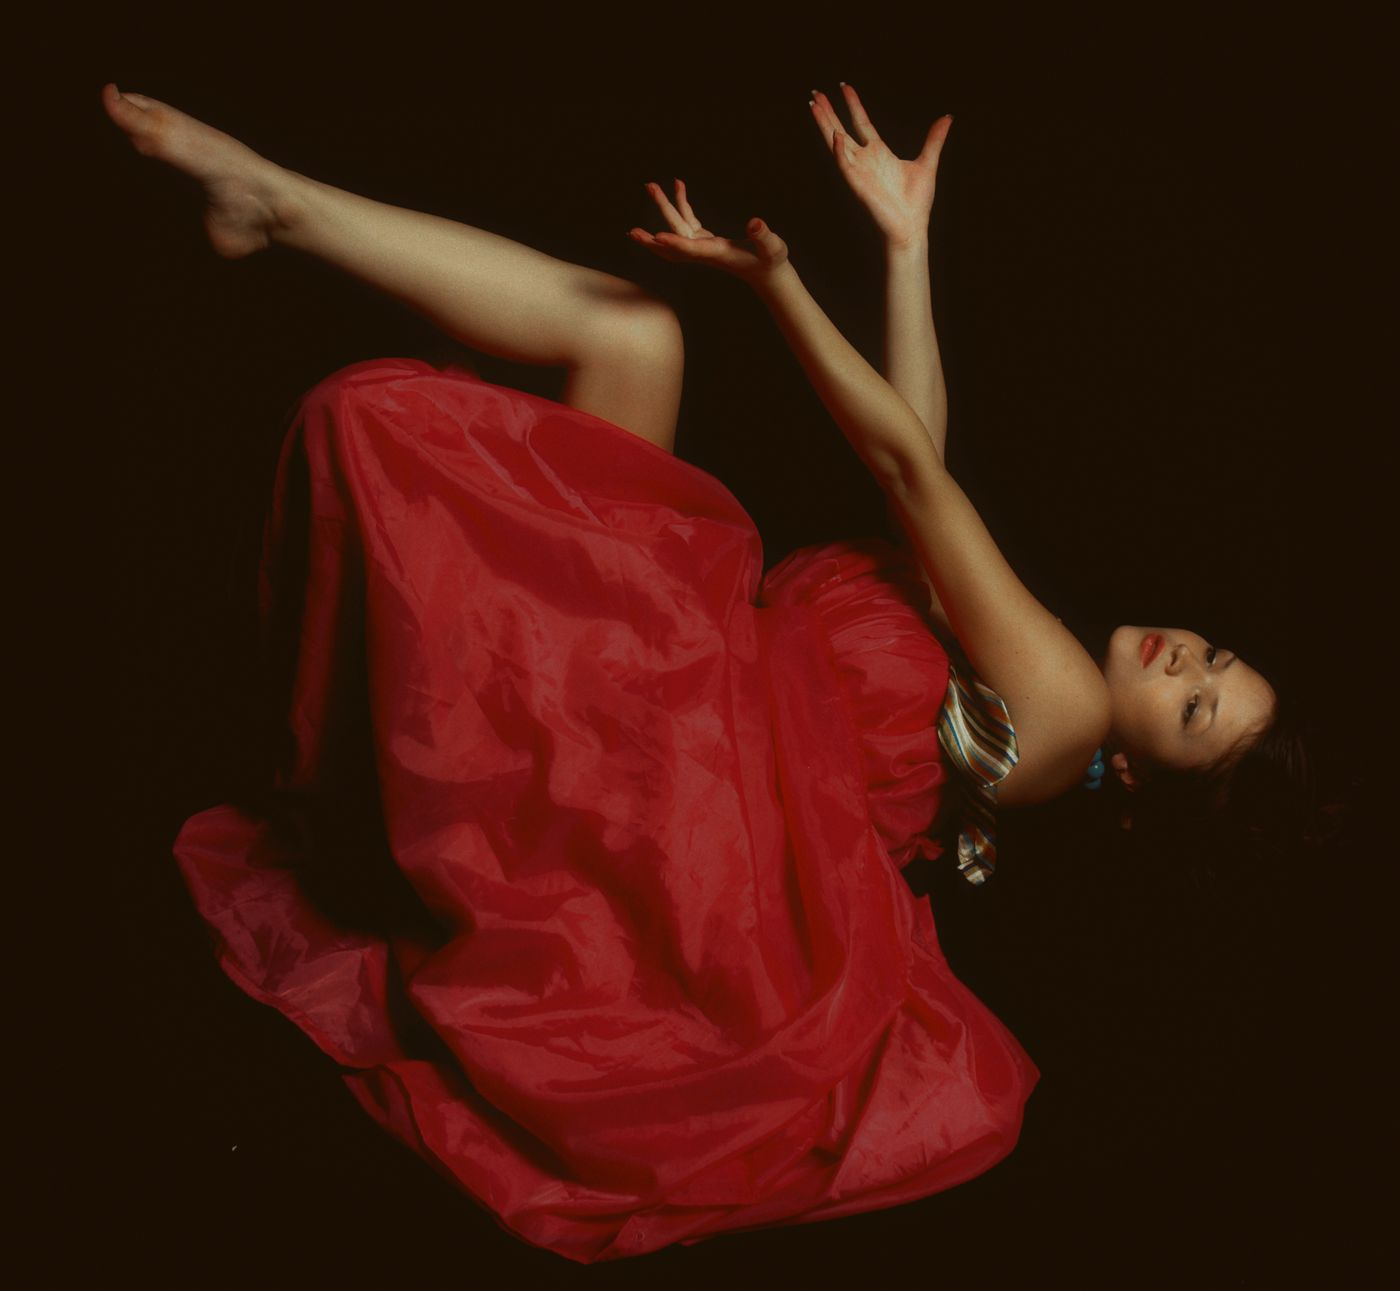
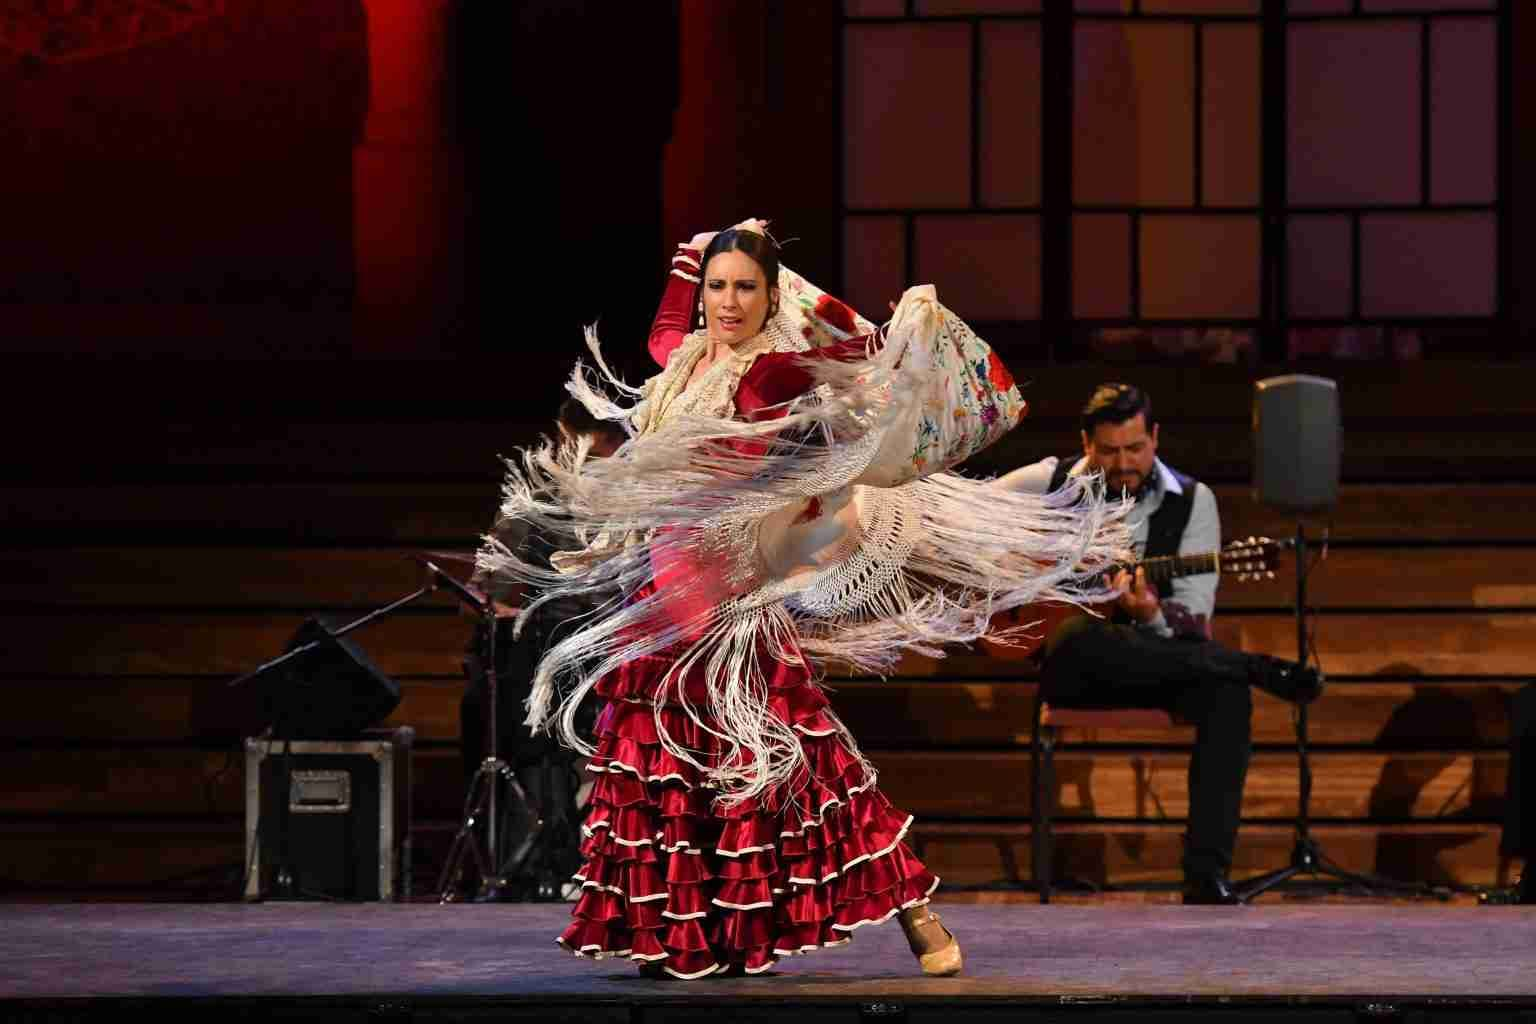
Flamenco: client's photos (8-photo gallery, fading card on the home page); removed the 'We organize your week' block

diff --git a/index.html b/index.html
@@ -242,6 +242,8 @@ body.menu .burger span:last-child{transform:translateY(-2.75px) rotate(-45deg)}
 .rail.drag{cursor:grabbing;scroll-snap-type:none}
 .xc{flex:none;width:clamp(280px,26vw,360px);scroll-snap-align:start;border-radius:var(--r);overflow:hidden;position:relative;aspect-ratio:3/4;background:var(--sand);border:1px solid var(--line);user-select:none}
 .xc img{width:100%;height:100%;object-fit:cover;transition:transform 1.2s var(--ease);pointer-events:none}
+.xc-fade img.fd{position:absolute;inset:0;opacity:0;transition:opacity 1.4s ease,transform 1.2s var(--ease)}
+.xc-fade img.fd.on{opacity:1}
 .xc:hover img{transform:scale(1.06)}
 .xc::after{content:"";position:absolute;inset:0;background:linear-gradient(180deg,rgba(46,36,30,0) 30%,rgba(46,36,30,.55) 55%,rgba(46,36,30,.9) 100%)}
 .xc .tx{color:#fff}
@@ -636,50 +638,6 @@ footer{background:var(--sand);color:var(--ink);padding:0 0 28px;overflow:hidden;
         <p class="note-sign">Yeila Castillo Castillo<small>Yei City Concierge</small></p>
       </div>
     </div>
-
-    <div class="bento">
-      <div class="b b-photo b-q rv">
-        <img src="assets/img/viajera-beige.jpg" alt="Viajera con maleta llegando a su destino" loading="lazy" style="object-position:50% 35%">
-        <blockquote>
-          <span class="es">“La tranquilidad de delegar en manos expertas y disfrutar de lo que realmente importa.”</span>
-          <span class="en">“The peace of mind of delegating to expert hands, so you can enjoy what truly matters.”</span>
-          <small>— Yei City Concierge</small>
-        </blockquote>
-      </div>
-
-      <div class="b b-num rv d1">
-        <svg class="bell"><use href="#i-bell"/></svg>
-        <div class="n" data-count="16">0</div>
-        <p><span class="es">servicios a tu disposición: del traslado desde el aeropuerto a la última copa de la noche.</span><span class="en">services at your disposal: from the airport transfer to the last drink of the night.</span></p>
-      </div>
-
-      <div class="b b-photo rv d2"><img src="assets/img/copas-beige.jpg" alt="Copas de cristal sobre fondo dorado" loading="lazy"></div>
-
-      <div class="b b-dest rv d3">
-        <span class="label" style="border:0;padding:0"><span>// <span class="es">Destinos</span><span class="en">Destinations</span></span><span>02</span></span>
-        <div>
-          <h4>Barcelona<br><span class="it"><span class="es">&amp; República Dominicana</span><span class="en">&amp; Dominican Republic</span></span></h4>
-          <div class="row"><span>BCN · GMT+1</span><span>RD · GMT−4</span></div>
-        </div>
-      </div>
-
-      <div class="b b-week rv d2" id="week">
-        <div class="hd">
-          <h4><span class="es">Organizamos tu semana.<br><span class="it">Tú solo descansas.</span></span><span class="en">We organize your week.<br><span class="it">You just relax.</span></span></h4>
-          <span><span class="es">Ejemplo de plan</span><span class="en">Sample plan</span></span>
-        </div>
-        <div class="week">
-          <div class="day"><div class="bar" style="height:46%;transition-delay:.05s" title="Llegada"><svg viewBox="0 0 24 24"><path d="M2 16h20M5 13l4 1 5-7 2 .5-2.5 7 4 1 1.5-2 1.5.4-1 3.6" fill="none" stroke="currentColor" stroke-width="1.6" stroke-linejoin="round"/></svg></div><small><span class="es">L</span><span class="en">M</span></small></div>
-          <div class="day"><div class="bar" style="height:72%;transition-delay:.12s" title="Cena"><svg viewBox="0 0 24 24"><path d="M7 3v8a2 2 0 0 0 2 2v8M7 3v6M11 3v6M17 3c-2 2-2 6 0 8v10" fill="none" stroke="currentColor" stroke-width="1.6" stroke-linecap="round"/></svg></div><small><span class="es">M</span><span class="en">T</span></small></div>
-          <div class="day"><div class="bar" style="height:58%;transition-delay:.19s" title="Spa"><svg viewBox="0 0 24 24"><path d="M12 21c-5 0-8-3-8-7 3 0 6 1 8 4 2-3 5-4 8-4 0 4-3 7-8 7zM12 18c-2-3-2-8 0-12 2 4 2 9 0 12z" fill="none" stroke="currentColor" stroke-width="1.5" stroke-linejoin="round"/></svg></div><small><span class="es">X</span><span class="en">W</span></small></div>
-          <div class="day"><div class="bar" style="height:84%;transition-delay:.26s" title="Velero"><svg viewBox="0 0 24 24"><path d="M11 3v13H4zM13 6l6 10h-6zM3 19c2 1.5 4 1.5 6 0 2 1.5 4 1.5 6 0 2 1.5 4 1.5 6 0" fill="none" stroke="currentColor" stroke-width="1.5" stroke-linejoin="round"/></svg></div><small><span class="es">J</span><span class="en">T</span></small></div>
-          <div class="day"><div class="bar" style="height:66%;transition-delay:.33s" title="Rooftop"><svg viewBox="0 0 24 24"><path d="M8 3h8l-1 7a3 3 0 0 1-6 0zM12 13v7M8 21h8" fill="none" stroke="currentColor" stroke-width="1.5" stroke-linejoin="round"/></svg></div><small><span class="es">V</span><span class="en">F</span></small></div>
-          <div class="day"><div class="bar" style="height:96%;transition-delay:.4s" title="Noche"><svg viewBox="0 0 24 24"><path d="M20 14.5A8 8 0 1 1 9.5 4a6.5 6.5 0 0 0 10.5 10.5z" fill="none" stroke="currentColor" stroke-width="1.5" stroke-linejoin="round"/></svg></div><small><span class="es">S</span><span class="en">S</span></small></div>
-          <div class="day"><div class="bar" style="height:38%;transition-delay:.47s" title="Relax"><svg viewBox="0 0 24 24"><circle cx="12" cy="12" r="4" fill="none" stroke="currentColor" stroke-width="1.5"/><path d="M12 2v3M12 19v3M2 12h3M19 12h3M5 5l2 2M17 17l2 2M19 5l-2 2M7 17l-2 2" stroke="currentColor" stroke-width="1.5" stroke-linecap="round"/></svg></div><small><span class="es">D</span><span class="en">S</span></small></div>
-        </div>
-        <div class="foot"><span class="es">Llegada · cena · spa · velero · rooftop · noche · relax</span><span class="en">Arrival · dinner · spa · sailing · rooftop · nightlife · relax</span><span>YCC</span></div>
-      </div>
-    </div>
   </div>
 </section>
 
@@ -862,7 +820,7 @@ footer{background:var(--sand);color:var(--ink);padding:0 0 28px;overflow:hidden;
       <a class="xc" href="planes/jardin/"><img src="assets/img/jardin-secreto.jpg" alt="Restaurante con jardín secreto en Barcelona" loading="lazy"><div class="tx"><span class="es">Rincón secreto</span><span class="en">Hidden gem</span><h3><span class="es">Un jardín en plena ciudad</span><span class="en">A secret garden</span></h3><p><span class="es">Perfecto para una celebración, una cita especial o desconectar.</span><span class="en">Perfect for a celebration, a special date or to disconnect.</span></p><span class="more"><span class="es">Ver plan</span><span class="en">View plan</span><svg><use href="#i-ar"/></svg></span></div></a>
       <a class="xc" href="planes/motos/"><img src="assets/img/moto.jpg" alt="Ruta en moto por la costa" loading="lazy"><div class="tx"><span class="es">En ruta</span><span class="en">On the road</span><h3><span class="es">Motos y rutas</span><span class="en">Motorbike rides</span></h3><p><span class="es">Experiencias sobre dos ruedas por la costa.</span><span class="en">On-the-road experiences along the coast.</span></p><span class="more"><span class="es">Ver plan</span><span class="en">View plan</span><svg><use href="#i-ar"/></svg></span></div></a>
       <a class="xc" href="planes/celebraciones/"><img src="assets/img/barco-lounge.jpg" alt="Barco preparado para una celebración" loading="lazy"><div class="tx"><span class="es">A bordo</span><span class="en">On board</span><h3><span class="es">Celebraciones en el mar</span><span class="en">Celebrations at sea</span></h3><p><span class="es">Un barco preparado al detalle para tu ocasión.</span><span class="en">A boat set up in every detail for your occasion.</span></p><span class="more"><span class="es">Ver plan</span><span class="en">View plan</span><svg><use href="#i-ar"/></svg></span></div></a>
-      <a class="xc" href="planes/flamenco/"><img src="assets/img/flamenco.jpg" alt="Espectáculo de flamenco" loading="lazy"><div class="tx"><span class="es">Cultura</span><span class="en">Culture</span><h3>Flamenco</h3><p><span class="es">Noches con alma en el corazón de la ciudad.</span><span class="en">Soulful nights in the heart of the city.</span></p><span class="more"><span class="es">Ver plan</span><span class="en">View plan</span><svg><use href="#i-ar"/></svg></span></div></a>
+      <a class="xc xc-fade" href="planes/flamenco/"><img class="fd on" src="assets/img/planes/flamenco-2.jpg" alt="Espectáculo de flamenco" loading="lazy" style="object-position:45% 40%"><img class="fd" src="assets/img/planes/flamenco-1.jpg" alt="" loading="lazy" style="object-position:50% 50%"><img class="fd" src="assets/img/planes/flamenco-3.jpg" alt="" loading="lazy" style="object-position:50% 70%"><img class="fd" src="assets/img/planes/flamenco-8.jpg" alt="" loading="lazy" style="object-position:30% 50%"><div class="tx"><span class="es">Cultura</span><span class="en">Culture</span><h3>Flamenco</h3><p><span class="es">Noches con alma en el corazón de la ciudad.</span><span class="en">Soulful nights in the heart of the city.</span></p><span class="more"><span class="es">Ver plan</span><span class="en">View plan</span><svg><use href="#i-ar"/></svg></span></div></a>
       <a class="xc" href="planes/vip/"><img src="assets/img/atardecer-yate.jpg" alt="Planes exclusivos al atardecer" loading="lazy"><div class="tx"><span>VIP</span><h3><span class="es">Planes exclusivos</span><span class="en">Exclusive plans</span></h3><p><span class="es">Y mucho más. Pídenos lo que imagines.</span><span class="en">And much more. Ask us for anything you can imagine.</span></p><span class="more"><span class="es">Ver plan</span><span class="en">View plan</span><svg><use href="#i-ar"/></svg></span></div></a>
     </div>
   </div>
@@ -1192,7 +1150,7 @@ const CONTACT = {
 
   /* --- contador --- */
   const cnt = document.querySelector('[data-count]');
-  new IntersectionObserver((es,o)=>es.forEach(e=>{ if(!e.isIntersecting) return; o.disconnect();
+  if (cnt) new IntersectionObserver((es,o)=>es.forEach(e=>{ if(!e.isIntersecting) return; o.disconnect();
     const end=+cnt.dataset.count, t0=performance.now();
     (function step(t){ const p=Math.min(1,(t-t0)/1400); cnt.firstChild.nodeValue = Math.round(end*(1-Math.pow(1-p,3))); if(p<1) requestAnimationFrame(step); })(t0);
   }),{threshold:.5}).observe(cnt);
@@ -1211,6 +1169,13 @@ const CONTACT = {
   document.querySelectorAll('[data-pick]').forEach(b=>b.addEventListener('click',()=>{
     const cb = document.querySelector(`#svcChips input[value="${b.dataset.pick}"]`); if(cb) cb.checked = true;
   }));
+
+  /* --- tarjeta de flamenco: fotos que se van fundiendo --- */
+  document.querySelectorAll('.xc-fade').forEach(card=>{
+    const imgs = [...card.querySelectorAll('img.fd')]; let i = 0;
+    if (imgs.length < 2 || matchMedia('(prefers-reduced-motion: reduce)').matches) return;
+    setInterval(()=>{ if (document.hidden) return; imgs[i].classList.remove('on'); i = (i + 1) % imgs.length; imgs[i].classList.add('on'); }, 3800);
+  });
 
   /* --- carrusel de experiencias --- */
   const rail = document.getElementById('rail');

diff --git a/republica-dominicana/index.html b/republica-dominicana/index.html
@@ -242,6 +242,8 @@ body.menu .burger span:last-child{transform:translateY(-2.75px) rotate(-45deg)}
 .rail.drag{cursor:grabbing;scroll-snap-type:none}
 .xc{flex:none;width:clamp(280px,26vw,360px);scroll-snap-align:start;border-radius:var(--r);overflow:hidden;position:relative;aspect-ratio:3/4;background:var(--sand);border:1px solid var(--line);user-select:none}
 .xc img{width:100%;height:100%;object-fit:cover;transition:transform 1.2s var(--ease);pointer-events:none}
+.xc-fade img.fd{position:absolute;inset:0;opacity:0;transition:opacity 1.4s ease,transform 1.2s var(--ease)}
+.xc-fade img.fd.on{opacity:1}
 .xc:hover img{transform:scale(1.06)}
 .xc::after{content:"";position:absolute;inset:0;background:linear-gradient(180deg,rgba(46,36,30,0) 30%,rgba(46,36,30,.55) 55%,rgba(46,36,30,.9) 100%)}
 .xc .tx{color:#fff}
@@ -649,50 +651,6 @@ footer{background:var(--sand);color:var(--ink);padding:0 0 28px;overflow:hidden;
         <p><span class="es">Me defino como una persona resolutiva, eficiente y proactiva. Me encargo de todo: desde reservas y transporte privado, hasta asistencia diaria y experiencias a medida.</span><span class="en">I’d describe myself as resourceful, efficient and proactive. I take care of everything: from reservations and private transport to daily assistance and tailor-made experiences.</span></p>
         <p class="note-end"><span class="es">Tú solo disfrutas, nosotros nos ocupamos del resto.</span><span class="en">You just enjoy, we take care of the rest.</span></p>
         <p class="note-sign">Yeila Castillo Castillo<small>Yei City Concierge</small></p>
-      </div>
-    </div>
-
-    <div class="bento">
-      <div class="b b-photo b-q rv">
-        <img src="../assets/img/viajera-beige.jpg" alt="Viajera con maleta llegando a su destino" loading="lazy" style="object-position:50% 35%">
-        <blockquote>
-          <span class="es">“La tranquilidad de delegar en manos expertas y disfrutar de lo que realmente importa.”</span>
-          <span class="en">“The peace of mind of delegating to expert hands, so you can enjoy what truly matters.”</span>
-          <small>— Yei City Concierge</small>
-        </blockquote>
-      </div>
-
-      <div class="b b-num rv d1">
-        <svg class="bell"><use href="#i-bell"/></svg>
-        <div class="n" data-count="16">0</div>
-        <p><span class="es">servicios a tu disposición: del traslado desde el aeropuerto a la última copa de la noche.</span><span class="en">services at your disposal: from the airport transfer to the last drink of the night.</span></p>
-      </div>
-
-      <div class="b b-photo rv d2"><img src="../assets/img/copas-beige.jpg" alt="Copas de cristal sobre fondo dorado" loading="lazy"></div>
-
-      <div class="b b-dest rv d3">
-        <span class="label" style="border:0;padding:0"><span>// <span class="es">Destinos</span><span class="en">Destinations</span></span><span>02</span></span>
-        <div>
-          <h4>Barcelona<br><span class="it"><span class="es">&amp; República Dominicana</span><span class="en">&amp; Dominican Republic</span></span></h4>
-          <div class="row"><span>BCN · GMT+1</span><span>RD · GMT−4</span></div>
-        </div>
-      </div>
-
-      <div class="b b-week rv d2" id="week">
-        <div class="hd">
-          <h4><span class="es">Organizamos tu semana.<br><span class="it">Tú solo descansas.</span></span><span class="en">We organize your week.<br><span class="it">You just relax.</span></span></h4>
-          <span><span class="es">Ejemplo de plan</span><span class="en">Sample plan</span></span>
-        </div>
-        <div class="week">
-          <div class="day"><div class="bar" style="height:46%;transition-delay:.05s" title="Llegada"><svg viewBox="0 0 24 24"><path d="M2 16h20M5 13l4 1 5-7 2 .5-2.5 7 4 1 1.5-2 1.5.4-1 3.6" fill="none" stroke="currentColor" stroke-width="1.6" stroke-linejoin="round"/></svg></div><small><span class="es">L</span><span class="en">M</span></small></div>
-          <div class="day"><div class="bar" style="height:72%;transition-delay:.12s" title="Cena"><svg viewBox="0 0 24 24"><path d="M7 3v8a2 2 0 0 0 2 2v8M7 3v6M11 3v6M17 3c-2 2-2 6 0 8v10" fill="none" stroke="currentColor" stroke-width="1.6" stroke-linecap="round"/></svg></div><small><span class="es">M</span><span class="en">T</span></small></div>
-          <div class="day"><div class="bar" style="height:58%;transition-delay:.19s" title="Spa"><svg viewBox="0 0 24 24"><path d="M12 21c-5 0-8-3-8-7 3 0 6 1 8 4 2-3 5-4 8-4 0 4-3 7-8 7zM12 18c-2-3-2-8 0-12 2 4 2 9 0 12z" fill="none" stroke="currentColor" stroke-width="1.5" stroke-linejoin="round"/></svg></div><small><span class="es">X</span><span class="en">W</span></small></div>
-          <div class="day"><div class="bar" style="height:84%;transition-delay:.26s" title="Velero"><svg viewBox="0 0 24 24"><path d="M11 3v13H4zM13 6l6 10h-6zM3 19c2 1.5 4 1.5 6 0 2 1.5 4 1.5 6 0 2 1.5 4 1.5 6 0" fill="none" stroke="currentColor" stroke-width="1.5" stroke-linejoin="round"/></svg></div><small><span class="es">J</span><span class="en">T</span></small></div>
-          <div class="day"><div class="bar" style="height:66%;transition-delay:.33s" title="Rooftop"><svg viewBox="0 0 24 24"><path d="M8 3h8l-1 7a3 3 0 0 1-6 0zM12 13v7M8 21h8" fill="none" stroke="currentColor" stroke-width="1.5" stroke-linejoin="round"/></svg></div><small><span class="es">V</span><span class="en">F</span></small></div>
-          <div class="day"><div class="bar" style="height:96%;transition-delay:.4s" title="Noche"><svg viewBox="0 0 24 24"><path d="M20 14.5A8 8 0 1 1 9.5 4a6.5 6.5 0 0 0 10.5 10.5z" fill="none" stroke="currentColor" stroke-width="1.5" stroke-linejoin="round"/></svg></div><small><span class="es">S</span><span class="en">S</span></small></div>
-          <div class="day"><div class="bar" style="height:38%;transition-delay:.47s" title="Relax"><svg viewBox="0 0 24 24"><circle cx="12" cy="12" r="4" fill="none" stroke="currentColor" stroke-width="1.5"/><path d="M12 2v3M12 19v3M2 12h3M19 12h3M5 5l2 2M17 17l2 2M19 5l-2 2M7 17l-2 2" stroke="currentColor" stroke-width="1.5" stroke-linecap="round"/></svg></div><small><span class="es">D</span><span class="en">S</span></small></div>
-        </div>
-        <div class="foot"><span class="es">Llegada · cena · spa · velero · rooftop · noche · relax</span><span class="en">Arrival · dinner · spa · sailing · rooftop · nightlife · relax</span><span>YCC</span></div>
       </div>
     </div>
   </div>
@@ -1194,7 +1152,7 @@ const CONTACT = {
 
   /* --- contador --- */
   const cnt = document.querySelector('[data-count]');
-  new IntersectionObserver((es,o)=>es.forEach(e=>{ if(!e.isIntersecting) return; o.disconnect();
+  if (cnt) new IntersectionObserver((es,o)=>es.forEach(e=>{ if(!e.isIntersecting) return; o.disconnect();
     const end=+cnt.dataset.count, t0=performance.now();
     (function step(t){ const p=Math.min(1,(t-t0)/1400); cnt.firstChild.nodeValue = Math.round(end*(1-Math.pow(1-p,3))); if(p<1) requestAnimationFrame(step); })(t0);
   }),{threshold:.5}).observe(cnt);
@@ -1213,6 +1171,13 @@ const CONTACT = {
   document.querySelectorAll('[data-pick]').forEach(b=>b.addEventListener('click',()=>{
     const cb = document.querySelector(`#svcChips input[value="${b.dataset.pick}"]`); if(cb) cb.checked = true;
   }));
+
+  /* --- tarjeta de flamenco: fotos que se van fundiendo --- */
+  document.querySelectorAll('.xc-fade').forEach(card=>{
+    const imgs = [...card.querySelectorAll('img.fd')]; let i = 0;
+    if (imgs.length < 2 || matchMedia('(prefers-reduced-motion: reduce)').matches) return;
+    setInterval(()=>{ if (document.hidden) return; imgs[i].classList.remove('on'); i = (i + 1) % imgs.length; imgs[i].classList.add('on'); }, 3800);
+  });
 
   /* --- carrusel de experiencias --- */
   const rail = document.getElementById('rail');

diff --git a/planes/flamenco/index.html b/planes/flamenco/index.html
@@ -504,6 +504,8 @@ footer{background:var(--sand);color:var(--ink);padding:0 0 28px;overflow:hidden;
 .pl-gal{display:grid;grid-template-columns:1.3fr 1fr 1fr;gap:12px;padding-bottom:clamp(56px,7vw,90px)}
 .pl-gal figure{border-radius:var(--r);overflow:hidden;aspect-ratio:4/5}
 .pl-gal figure:first-child{aspect-ratio:auto;grid-row:span 1}
+.pl-gal.gal8{grid-template-columns:repeat(4,1fr)}
+.pl-gal.gal8 figure,.pl-gal.gal8 figure:first-child{aspect-ratio:4/3;grid-column:auto}
 .pl-gal img{width:100%;height:100%;object-fit:cover;transition:transform 1.2s var(--ease)}
 .pl-gal figure:hover img{transform:scale(1.05)}
 .pl-cap{grid-column:1/-1;font-family:var(--mono);font-size:10.5px;letter-spacing:.14em;text-transform:uppercase;color:var(--muted)}
@@ -530,6 +532,7 @@ footer{background:var(--sand);color:var(--ink);padding:0 0 28px;overflow:hidden;
   .pl-intro,.sv-cols{grid-template-columns:1fr}
   .pl-gal{grid-template-columns:1fr 1fr}
   .pl-gal figure:first-child{grid-column:1/-1;aspect-ratio:16/10}
+  .pl-gal.gal8{grid-template-columns:1fr 1fr} .pl-gal.gal8 figure,.pl-gal.gal8 figure:first-child{grid-column:auto;aspect-ratio:4/3}
   .pl-others .grid{grid-template-columns:1fr 1fr}
 }
 @media (max-width:560px){ .back span.t{display:none} .back{padding:10px 12px} .pl-hero{min-height:72svh} }
@@ -577,11 +580,15 @@ footer{background:var(--sand);color:var(--ink);padding:0 0 28px;overflow:hidden;
     <a href="../../?plan=flamenco#reserva" class="btn btn-dark"><span class="es">Reservar este plan</span><span class="en">Book this plan</span><span class="ar"><svg width="14" height="14"><use href="#i-ar"/></svg></span></a>
   </section>
 
-  <section class="pl-gal">
-    <figure><img src="../../assets/img/flamenco.jpg" alt="" loading="lazy"></figure>
-    <figure><img src="../../assets/img/planes/flamenco-2.jpg" alt="" loading="lazy"></figure>
-    <figure><img src="../../assets/img/planes/flamenco-3.jpg" alt="" loading="lazy"></figure>
-    <p class="pl-cap"><span class="es">Imágenes de ejemplo</span><span class="en">Example images</span></p>
+  <section class="pl-gal gal8">
+    <figure><img src="../../assets/img/planes/flamenco-1.jpg" alt="Bailaoras con mantones en el escenario" loading="lazy"></figure>
+    <figure><img src="../../assets/img/planes/flamenco-2.jpg" alt="Bailaora con mantón y guitarrista" loading="lazy" style="object-position:45% 40%"></figure>
+    <figure><img src="../../assets/img/planes/flamenco-3.jpg" alt="Bailaoras con castañuelas" loading="lazy" style="object-position:50% 70%"></figure>
+    <figure><img src="../../assets/img/planes/flamenco-4.jpg" alt="Dos bailaoras con mantones" loading="lazy"></figure>
+    <figure><img src="../../assets/img/planes/flamenco-5.jpg" alt="Bailaoras de perfil con bata de cola" loading="lazy"></figure>
+    <figure><img src="../../assets/img/planes/flamenco-6.jpg" alt="Cuadro flamenco con músicos" loading="lazy"></figure>
+    <figure><img src="../../assets/img/planes/flamenco-7.jpg" alt="Bailaoras en el escenario" loading="lazy" style="object-position:55% 60%"></figure>
+    <figure><img src="../../assets/img/planes/flamenco-8.jpg" alt="Silueta de bailaora" loading="lazy" style="object-position:30% 50%"></figure>
   </section>
 
   <section class="sv-cols">
